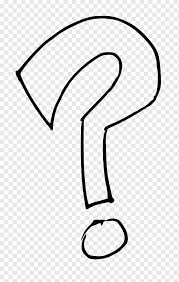
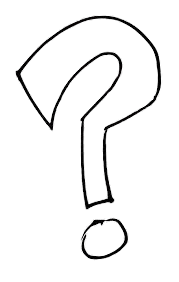
fix(ui): minor layout corrections

diff --git a/ekranlar/ana_giris.py b/ekranlar/ana_giris.py
@@ -5,17 +5,20 @@ from ekranlar.hasta_giris import HastaGirisEkrani
 from ekranlar.doktor_giris import DoktorGirisEkrani
 from ekranlar.yardim_ekrani import YardimPenceresi
 from ekranlar.sifre_sifirla import SifreSifirlaEkrani
+import webbrowser
 
 class KartFrame(QFrame):
     def __init__(self, baslik, aciklama, icon_path, renk):
         super().__init__()
-        self.setFixedSize(220, 200)
+        self.setFixedSize(220, 220)
+        self.setCursor(QCursor(Qt.PointingHandCursor))
+
+        # Stil
         self.setStyleSheet(f"""
             QFrame {{
                 background-color: {renk};
-                border-radius: 12px;
+                border-radius: 16px;
                 color: white;
-                padding: 15px;
             }}
             QFrame:hover {{
                 background-color: qlineargradient(spread:pad, x1:0, y1:0, x2:0, y2:1, 
@@ -24,32 +27,36 @@ class KartFrame(QFrame):
             }}
         """)
 
-        # İkon
+        # Simge
         ikon_label = QLabel()
         if icon_path:
-            ikon = QPixmap(icon_path).scaled(60, 60, Qt.KeepAspectRatio, Qt.SmoothTransformation)
+            ikon = QPixmap(icon_path).scaled(64, 64, Qt.KeepAspectRatio, Qt.SmoothTransformation)
             ikon_label.setPixmap(ikon)
             ikon_label.setAlignment(Qt.AlignCenter)
+            ikon_label.setStyleSheet("background: transparent;")
 
         # Başlık
         self.baslik_label = QLabel(baslik)
-        self.baslik_label.setStyleSheet("font-size: 16px; font-weight: bold; color: white;")
         self.baslik_label.setAlignment(Qt.AlignCenter)
+        self.baslik_label.setStyleSheet("font-size: 16px; font-weight: bold; color: white;")
 
         # Açıklama
         self.aciklama_label = QLabel(aciklama)
-        self.aciklama_label.setStyleSheet("font-size: 12px; color: white; padding: 5px;")
-        self.aciklama_label.setWordWrap(True)
         self.aciklama_label.setAlignment(Qt.AlignCenter)
+        self.aciklama_label.setWordWrap(True)
+        self.aciklama_label.setStyleSheet("font-size: 12px; color: white;")
 
-        # Düzen
-        kart_layout = QVBoxLayout()
-        kart_layout.addWidget(ikon_label)
-        kart_layout.addWidget(self.baslik_label)
-        kart_layout.addWidget(self.aciklama_label)
+        # Hepsi bir düzen içinde
+        layout = QVBoxLayout()
+        layout.setSpacing(10)
+        layout.setContentsMargins(10, 15, 10, 15)
+        layout.setAlignment(Qt.AlignCenter)
 
-        self.setLayout(kart_layout)
-        self.setCursor(QCursor(Qt.PointingHandCursor))
+        layout.addWidget(ikon_label)
+        layout.addWidget(self.baslik_label)
+        layout.addWidget(self.aciklama_label)
+
+        self.setLayout(layout)
 
 
 class AnaGirisEkrani(QWidget):
@@ -179,9 +186,20 @@ class AnaGirisEkrani(QWidget):
         self.sifre_label.setCursor(QCursor(Qt.PointingHandCursor))
         self.sifre_label.mousePressEvent = lambda event: self.sifre_sifirlama_ac()
 
-        self.iletisim_label = QLabel()
+        self.iletisim_label = QLabel("Diyabet Takip Sistemi: 0850 000 00 00")
         self.iletisim_label.setAlignment(Qt.AlignCenter)
-        self.iletisim_label.setStyleSheet("color: #555; font-size: 14px;")
+        self.iletisim_label.setStyleSheet("""
+            QLabel {
+                color: #555;
+                font-size: 14px;
+                text-decoration: underline;
+            }
+            QLabel:hover {
+                color: #0d47a1;
+            }
+        """)
+        self.iletisim_label.setCursor(QCursor(Qt.PointingHandCursor))
+        self.iletisim_label.mousePressEvent = lambda event: webbrowser.open("tel:[phone redacted]")
 
         alt_layout = QVBoxLayout()
         alt_layout.addWidget(self.sifre_label)